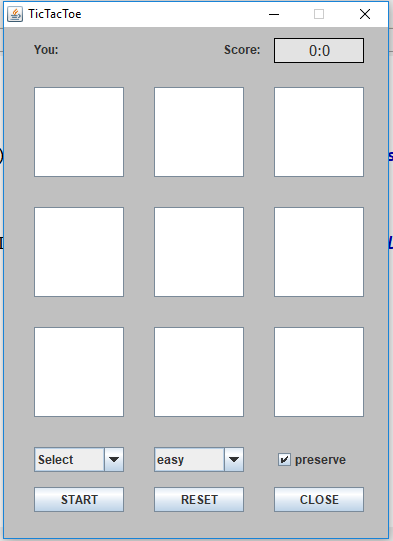
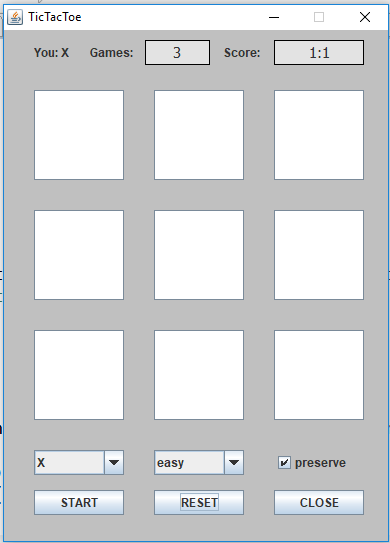
New screenshot (Games counter added)

diff --git a/src/GameUI.java b/src/GameUI.java
@@ -25,7 +25,7 @@ public class GameUI extends JFrame{
 	private ImageIcon x, o;
 	
 	private JButton btnClose, btnReset, btnStart;
-	private JLabel lblScore, lblHeader, lblYou;
+	private JLabel lblScore, lblHeader, lblYou, lblGames;
 	
 	private JComboBox comboBox, comboLevel;
 	private JCheckBox chckbxPreserve;
@@ -35,6 +35,7 @@ public class GameUI extends JFrame{
 	private int X, Y;
 	
 	private final int MAX_MOVES = 5;
+	private int games;
 	private int comp_moves;
 	
 	private int userScore, compScore;
@@ -43,6 +44,7 @@ public class GameUI extends JFrame{
 	private boolean isGameStarted;
 	
 	private Automation automation;
+	private JLabel lblForGames;
 	
 	public GameUI() {
 		
@@ -58,6 +60,7 @@ public class GameUI extends JFrame{
 		userScore = 0; 
 		compScore = 0;
 		comp_moves = 0;
+		games = 0;
 		winner = "";
 		
 		setGUI();
@@ -76,6 +79,8 @@ public class GameUI extends JFrame{
 	private void setGUI(){
 		
 		setYouLbl();
+		setGamesLbl();
+		setCounter();
 		setComboLevel();
 		setIcons();
 		setBtns();
@@ -169,6 +174,8 @@ public class GameUI extends JFrame{
 				
 			if(testIsWin()){
 				
+				games++;
+				lblGames.setText(String.format("%d", games));
 				info(LableList.WIN);
 				reset();			
 			}
@@ -176,6 +183,8 @@ public class GameUI extends JFrame{
 				
 				if(isAllSet()){
 					
+					games++;
+					lblGames.setText(String.format("%d", games));
 					error(LableList.endOfGame);
 					reset();
 					enableBtn();
@@ -421,7 +430,7 @@ public class GameUI extends JFrame{
 		getContentPane().add(lblHeader);
 	}
 	
-	//Set "Score" label
+	//Set "GAMES COUNTER" label
 	private void setScoreLbl(){
 		
 		lblScore = new JLabel(LableList.zeroLbl);
@@ -430,8 +439,31 @@ public class GameUI extends JFrame{
 		lblScore.setOpaque(true); //Otherwise the background is not painted, since the default of opaque is false for JLabel.
 		lblScore.setFont(new Font("Tahoma", Font.PLAIN, 15));
 		lblScore.setHorizontalAlignment(SwingConstants.CENTER);
-		lblScore.setBounds(270, 11, 90, 25);
+		lblScore.setBounds(270, 10, 90, 25);
 		getContentPane().add(lblScore);	
+		
+	}
+	
+	//Set "Score" label
+	private void setGamesLbl(){
+			
+		lblForGames = new JLabel(LableList.GAMES);
+		lblForGames.setHorizontalAlignment(SwingConstants.LEFT);
+		lblForGames.setBounds(86, 10, 45, 25);
+		getContentPane().add(lblForGames);
+	}
+	
+	//Set "Score" label
+	private void setCounter(){
+		
+		lblGames = new JLabel(String.format("%d", games));
+		lblGames.setBackground(SystemColor.controlHighlight);
+		lblGames.setBorder(BorderFactory.createLineBorder(Color.BLACK));
+		lblGames.setOpaque(true); //Otherwise the background is not painted, since the default of opaque is false fo
+		lblGames.setFont(new Font("Tahoma", Font.PLAIN, 15));
+		lblGames.setHorizontalAlignment(SwingConstants.CENTER);
+		lblGames.setBounds(141, 10, 65, 25);
+		getContentPane().add(lblGames);
 	}
 	
 	//You label
@@ -611,10 +643,14 @@ public class GameUI extends JFrame{
 			if(comboBox.getSelectedItem().toString().equals(winner)){
 				
 				info(LableList.WIN);
+				games++;
+				lblGames.setText(String.format("%d", games));
 			}
 			else{
 				
 				info(LableList.LOST);
+				games++;
+				lblGames.setText(String.format("%d", games));
 			}
 
 			reset();		

diff --git a/src/Automation.java b/src/Automation.java
@@ -7,7 +7,7 @@ import javax.swing.JComboBox;
 public class Automation {
 
 	
-	//Automation - EASY level
+	//Automation - EASY level (random moves, no logic at all)
 	int compEasy(ArrayList<JButton> btnArray, JComboBox comboBox, int comp_moves, ImageIcon x, ImageIcon o){
 			
 		boolean isMoved = false;
@@ -70,6 +70,7 @@ public class Automation {
 		
 		return comp_moves;
 	}
+	
 	
 	//END OF CLASS
 }

diff --git a/src/Game.java b/src/Game.java
@@ -4,15 +4,7 @@ public class Game {
 
 	public static void main(String[] args){
 		
-		try{
-			
-			GameUI game = new GameUI();
-		}
-		catch(Exception ex){
-			
-			JOptionPane.showMessageDialog(null, ex.getMessage(), "ERROR", JOptionPane.ERROR_MESSAGE);			
-		}
-		
+		GameUI game = new GameUI();
 	}
 	
 }

diff --git a/src/LableList.java b/src/LableList.java
@@ -6,6 +6,7 @@ public class LableList {
 	static final String RESET = "RESET";
 	static final String CLOSE = "CLOSE";
 	static final String BTN = "button";
+	static final String GAMES = "Games:";
 	
 	static final String SCORE = "Score:";
 	static final String zeroLbl = "0:0";
